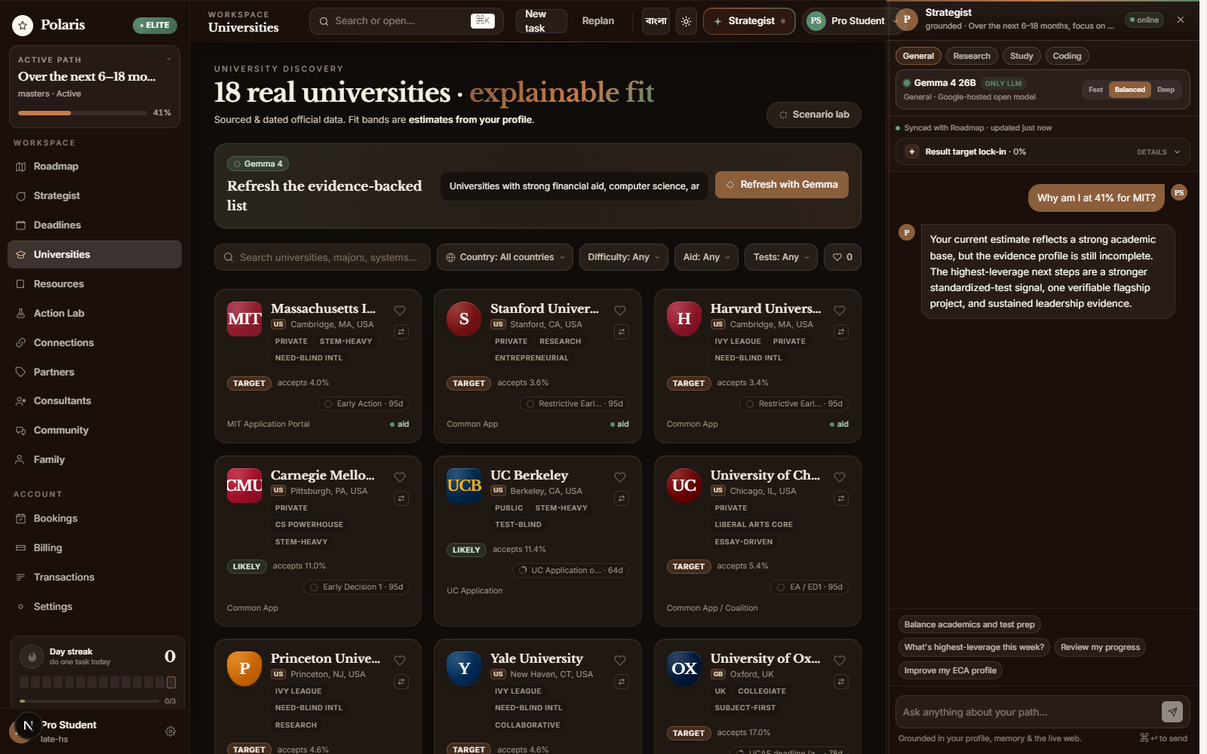
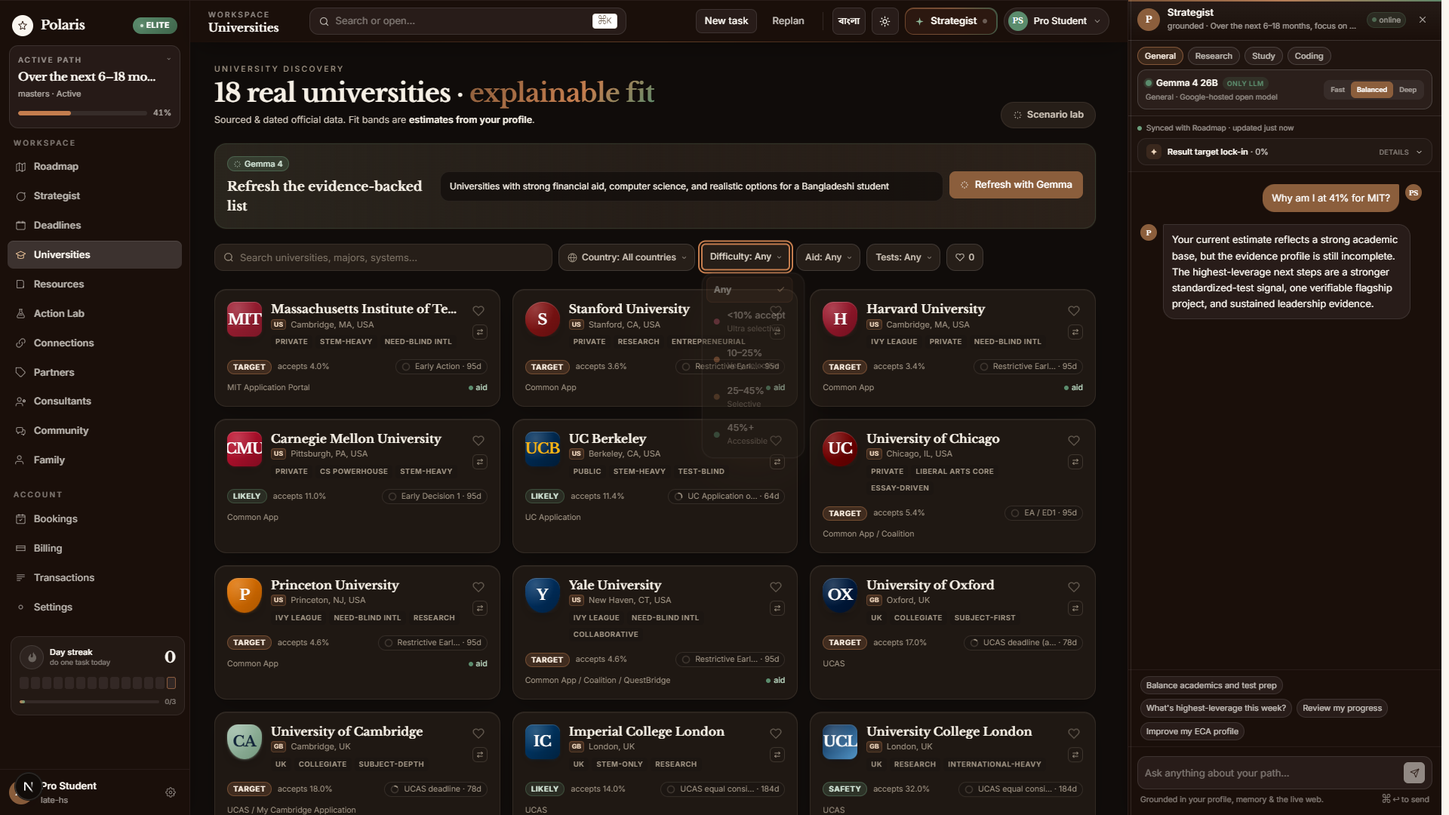
feat: finalize judge-ready Gemma workspace

diff --git a/components/app/GemmaStudioPanels.tsx b/components/app/GemmaStudioPanels.tsx
@@ -1,6 +1,6 @@
 "use client";
 
-import { useEffect, useMemo, useState } from "react";
+import { useEffect, useMemo, useRef, useState } from "react";
 import Image from "next/image";
 import { motion } from "framer-motion";
 import { Btn, Card, Icon, Pill, Progress, RingMini, Tag } from "@/components/app/ui";
@@ -430,6 +430,7 @@ export function GemmaEssayStudio({ lang }: { lang: Lang }) {
   const [hydrated, setHydrated] = useState(false);
   const [savedAt, setSavedAt] = useState("");
   const [scan, setScan] = useState<ScannedEssay | null>(null);
+  const imageInputRef = useRef<HTMLInputElement>(null);
   const [scanBusy, setScanBusy] = useState(false);
   const [scanError, setScanError] = useState("");
   const [uncertainText, setUncertainText] = useState("");
@@ -553,6 +554,14 @@ export function GemmaEssayStudio({ lang }: { lang: Lang }) {
     });
   };
 
+  const clearImage = () => {
+    setScan(null);
+    setScanError("");
+    setUncertainText("");
+    setTranslation("");
+    if (imageInputRef.current) imageInputRef.current.value = "";
+  };
+
   const chooseImage = async (file?: File) => {
     if (!file) return;
     setScanBusy(true);
@@ -661,14 +670,27 @@ export function GemmaEssayStudio({ lang }: { lang: Lang }) {
               <span className="grid h-10 w-10 place-items-center rounded-xl bg-aurora-500/15 text-lg text-aurora-600">↑</span>
               <span className="mt-2 text-[12px] font-semibold text-ink">{scan ? (bn ? "অন্য ছবি বেছে নিন" : "Choose another image") : (bn ? "স্ক্যান করুন বা ছবি আপলোড করুন" : "Scan or upload a page")}</span>
               <span className="mt-1 text-[9.5px] text-ink-muted">JPEG, PNG, WebP</span>
-              <input type="file" accept="image/jpeg,image/png,image/webp" capture="environment" className="sr-only" onChange={(event) => void chooseImage(event.target.files?.[0])} />
+              <input ref={imageInputRef} type="file" accept="image/jpeg,image/png,image/webp" capture="environment" className="sr-only" onChange={(event) => void chooseImage(event.target.files?.[0])} />
             </label>
             <p className="mt-2 text-[9.5px] leading-relaxed text-ink-muted">{bn ? "ছবি সংরক্ষণ করা হয় না। সক্রিয় extraction অনুরোধে এটি শুধু Gemma-কে পাঠানো হয়।" : "The image is not stored. It is sent to Gemma only for the active extraction request."}</p>
           </div>
           <div className="rounded-2xl border border-ink-faint/15 bg-bg/50 p-4">
             {scan ? (
               <div className="grid gap-3 md:grid-cols-[190px_1fr]">
-                <Image src={scan.preview} alt={bn ? "আপলোড করা হাতের লেখা" : "Uploaded handwriting"} width={190} height={208} unoptimized className="h-52 w-full rounded-xl object-contain bg-white/90 ring-1 ring-inset ring-ink-faint/10" />
+                <div className="relative">
+                  <Image src={scan.preview} alt={bn ? "আপলোড করা হাতের লেখা" : "Uploaded handwriting"} width={190} height={208} unoptimized className="h-52 w-full rounded-xl object-contain bg-white/90 ring-1 ring-inset ring-ink-faint/10" />
+                  <button
+                    type="button"
+                    onClick={clearImage}
+                    disabled={scanBusy}
+                    aria-label={bn ? "আপলোড করা ছবি মুছুন" : "Remove uploaded image"}
+                    title={bn ? "ছবি মুছুন" : "Remove image"}
+                    className="absolute right-2 top-2 inline-flex h-7 items-center gap-1 rounded-full bg-ink/85 px-2.5 text-[9.5px] font-semibold text-paper shadow-sm backdrop-blur transition hover:bg-signal-rose disabled:cursor-not-allowed disabled:opacity-50"
+                  >
+                    <Icon.close size={10} />
+                    <span>{bn ? "মুছুন" : "Remove"}</span>
+                  </button>
+                </div>
                 <div>
                   <div className="flex flex-wrap items-center gap-2">
                     <Tag tone="aurora">{sourceLanguage === "bn" ? "বাংলা" : sourceLanguage === "mixed" ? (bn ? "মিশ্র ভাষা" : "Mixed") : "English"}</Tag>

diff --git a/app/globals.css b/app/globals.css
@@ -291,6 +291,42 @@ html.lenis body {
   background-clip: padding-box;
 }
 *::-webkit-scrollbar-corner { background: transparent; }
+
+/* Consistent product scrollers for nested workspaces and floating controls. */
+.polaris-scrollbar {
+  scrollbar-width: thin;
+  scrollbar-color: rgba(178, 118, 76, 0.58) rgba(49, 36, 28, 0.22);
+  scrollbar-gutter: stable;
+}
+.polaris-scrollbar::-webkit-scrollbar { width: 9px; height: 9px; }
+.polaris-scrollbar::-webkit-scrollbar-track {
+  background: rgba(49, 36, 28, 0.22);
+  border-radius: 999px;
+}
+.polaris-scrollbar::-webkit-scrollbar-thumb {
+  background: linear-gradient(180deg, rgba(204, 143, 94, 0.76), rgba(139, 94, 60, 0.68));
+  background-clip: padding-box;
+  border: 2px solid transparent;
+  border-radius: 999px;
+}
+.polaris-scrollbar::-webkit-scrollbar-thumb:hover {
+  background: linear-gradient(180deg, rgba(220, 158, 106, 0.9), rgba(157, 103, 65, 0.82));
+  background-clip: padding-box;
+}
+:root[data-theme="dark"] .polaris-scrollbar {
+  scrollbar-color: rgba(204, 143, 94, 0.7) rgba(49, 36, 28, 0.36);
+}
+:root[data-theme="dark"] .polaris-scrollbar::-webkit-scrollbar-track {
+  background: rgba(49, 36, 28, 0.36);
+}
+:root[data-theme="dark"] .polaris-scrollbar::-webkit-scrollbar-thumb {
+  background: linear-gradient(180deg, rgba(204, 143, 94, 0.76), rgba(139, 94, 60, 0.68));
+  background-clip: padding-box;
+}
+:root[data-theme="dark"] .polaris-scrollbar::-webkit-scrollbar-thumb:hover {
+  background: linear-gradient(180deg, rgba(220, 158, 106, 0.9), rgba(157, 103, 65, 0.82));
+  background-clip: padding-box;
+}
 /* Always show the vertical scrollbar so layout doesn't jump between long /
    short pages. */
 html { scrollbar-gutter: stable; }

diff --git a/app/demo/layout.tsx b/app/demo/layout.tsx
@@ -6,8 +6,8 @@ import { DemoWorkspaceSeed } from "@/components/demo/DemoWorkspaceSeed";
 import { DEMO_PATHS, DEMO_USER } from "@/lib/demo/polaris";
 
 export const metadata: Metadata = {
-  title: "Polaris | Public Gemma 4 Demo",
-  description: "The complete Polaris workspace, available without sign-in for hackathon judging.",
+  title: "Polaris | Gemma 4 Academic Strategist",
+  description: "A bilingual Gemma 4 academic strategist that turns student ambition into an evidence-backed plan.",
 };
 
 export default function DemoLayout({ children }: { children: React.ReactNode }) {
@@ -26,7 +26,7 @@ export default function DemoLayout({ children }: { children: React.ReactNode }) 
         />
         <div className="flex-1 min-w-0 flex flex-col h-full">
           <TopBar basePath="/demo" demoUser={DEMO_USER} />
-          <main className="flex-1 min-h-0 overflow-y-auto">{children}</main>
+          <main className="polaris-scrollbar flex-1 min-h-0 overflow-y-auto">{children}</main>
         </div>
         <AgentChat
           studentInitials={DEMO_USER.initials}

diff --git a/components/app/AgentChat.tsx b/components/app/AgentChat.tsx
@@ -765,7 +765,7 @@ export function AgentChat({ studentInitials, pathLabel, contextChips = [], demo 
         </div>
       )}
 
-      <div ref={scroller} className="flex-1 min-h-0 overflow-y-auto overscroll-contain px-4 py-4 space-y-4">
+      <div ref={scroller} className="polaris-scrollbar flex-1 min-h-0 overflow-y-auto overscroll-contain px-4 py-4 space-y-4">
         {messages.length === 0 && <EmptyState onPick={send}/>}
         {messages.map(m => <Bubble key={m.id} m={m} initials={studentInitials}/>)}
         {thinking && streaming && <ThinkingIndicator label={thinking} />}

diff --git a/components/ui/PremiumSelect.tsx b/components/ui/PremiumSelect.tsx
@@ -211,7 +211,7 @@ export function PremiumSelect({
                 role="listbox"
                 id={listboxId}
                 aria-activedescendant={highlight ? `${listboxId}-${highlight}` : undefined}
-                className="max-h-[280px] overflow-y-auto overscroll-contain p-1.5"
+                className="polaris-scrollbar max-h-[280px] overflow-y-auto overscroll-contain p-1.5"
               >
                 {visible.length === 0 ? (
                   <div className="px-3 py-6 text-center">

diff --git a/KAGGLE_WRITEUP.md b/KAGGLE_WRITEUP.md
@@ -2,106 +2,94 @@
 
 **Team:** Imtiaz Hossain & Mofftasim Hossain Sayem
 
-## Turning a Bangladeshi student's ambition into an evidence-grounded plan they can start this week
+## A Bengali-first Gemma 4 strategist that helps students start early, prove progress, and turn global education goals into weekly action.
 
-### The problem
+### The moment the roadmap arrives too late
 
-A motivated student can search for "how to get into a top university" and receive thousands of results. That abundance is part of the problem. Requirements, scholarships, deadlines, case studies, and generic advice are scattered across sources. Students with access to experienced counselors can turn those fragments into a strategy; many students in Bangladesh cannot.
+A Bangladeshi student completes HSC, opens a scholarship page, and discovers that the strongest application was supposed to begin years earlier. The test score needs months of preparation. The application asks for sustained projects, leadership, and proof of impact. Important deadlines are already close. The ambition was always there; the roadmap arrived too late.
 
-The result is not a lack of ambition. It is misallocated effort: collecting certificates instead of developing depth, preparing for tests too late, overlooking scholarship timelines, or targeting universities without understanding profile gaps.
+That gap begins long before university applications. A student in Class 5, 7, or 8 may have curiosity and potential but no connected view of Olympiads, hackathons, community projects, English preparation, scholarships, or future deadlines. Search results provide fragments. Families with experienced counselors can turn those fragments into a sequence; many students cannot.
 
-We asked a practical question: **Can an open model act as a strategic reasoning layer, not merely a chatbot, and turn a small student snapshot into a measurable, locally realistic roadmap?**
+The result is often misallocated effort: collecting certificates instead of building depth, preparing for IELTS or SAT too late, missing funding windows, or targeting universities without understanding the evidence their profile still needs.
 
-### Our solution
+We asked: **Can an open model become a strategic reasoning layer that helps a student start earlier, adapt honestly, and turn a distant goal into the next measurable week?**
 
-Polaris is an AI academic strategist powered exclusively by Gemma 4. A student provides their current stage, intended degree, academic standing, target university tier, and existing extracurricular strengths. Polaris retrieves relevant evidence from a curated knowledge base and asks Gemma 4 to produce:
+### What we built
 
-- a concise strategic diagnosis;
-- 3-5 honest profile gaps;
-- an 8-12 step roadmap across the next 6-18 months;
-- a priority, rationale, and measurable success criterion for every step.
+Polaris is a bilingual academic strategist powered exclusively by Gemma 4. A student provides their stage, intended degree, academic standing, goals, constraints, and current activities. Polaris retrieves relevant evidence and asks Gemma 4 to create a structured diagnosis and an 8 to 12 step roadmap across the next 6 to 18 months. Every milestone includes a priority, rationale, deadline, and measurable success criterion.
 
-This output is structured data, not an unbounded chat response. Polaris renders it as an interactive plan that can later be tracked, adapted, and discussed with the streaming Strategist.
+The result is not an unbounded chat transcript. It is a living roadmap that can be tracked, replanned, and discussed with a synchronized Strategist. Judges can open the public workspace without an account, card, or payment. English and Bengali are supported across navigation, roadmap content, forms, errors, and generated guidance, while official names and established acronyms remain unchanged.
 
-Judges can use the public `/demo` workspace without creating an account or entering payment details. It begins with a complete, realistic Bangladesh-student roadmap, supports live replanning, and exposes model traces and retrieved sources.
+Polaris follows the student after planning:
 
-The entire public workspace can switch between English and Bengali. Navigation, generated roadmap content, validation messages, fallback guidance, and Strategist answers follow the selected language while proper names and standard admissions acronyms remain intact.
+- **Decision Twin** stress-tests a changed score, deadline, budget, country, or weekly study time and explains what should move.
+- **Evidence-to-Action Graph** separates a claim from proof, identifies missing verification, and proposes the next evidence action.
+- **Mock Exams** uses Gemma 4 to generate fresh IELTS or Digital SAT questions by section and difficulty. Scoring is deterministic; Gemma 4 diagnoses the answer pattern and recommends the next practice block.
+- **Smart Routine** converts a request such as “add mathematics practice from 9 to 10 pm” into a validated, editable weekly schedule.
+- **Video Learning** starts with verified section-specific playlists. Gemma 4 refreshes relevant lessons and the selected video plays inside Polaris.
+- **Knowledge Notes** turns feedback into reusable memory shared by the full-page and side-panel Strategists.
+- **Essay Studio** supports multiple named drafts, ethical improvement, and voice-preserving feedback. Gemma 4 can transcribe Bengali, English, or mixed handwritten essays from an uploaded image, preserve Bengali first, and create an English translation only when requested.
+- **Discovery refresh** helps students explore universities, resources, offers, and case-study patterns under contracts that prohibit invented rankings, costs, admission rates, offers, or outcomes.
+- **Family workspace** creates revocable, browser-local read-only invitation links so a student can share progress without surrendering control.
 
-Action Lab extends the roadmap beyond chat. Its **Decision Twin** stress-tests a changed score, deadline, budget, country, or weekly study time. The **Evidence-to-Action Graph** separates a student's claim from proof and produces the next measurable verification step. Gemma 4 also creates fresh IELTS or SAT diagnostics, reviews answer patterns after deterministic scoring, refreshes verified in-app lesson playlists by exam section, converts routine requests into editable blocks, and supports day-by-day essay improvement. Students can upload Bengali, English, or mixed handwritten essays for faithful Gemma 4 transcription, then explicitly request an English translation and save it as a separate named draft.
+### Why Gemma 4 is essential
 
-Students can turn feedback into browser-local knowledge notes. Both the full-page Strategist and right-side Strategist read the same saved notes and conversation history. Gemma 4 discovery controls can refresh university, resource, and case-study recommendations under contracts that prohibit invented rankings, costs, offers, rates, or outcomes. A functional family workspace creates revocable, browser-local read-only invitation links. An optional personal Gemma API key is stored only for the current browser tab and never persisted or logged.
+A template can say “improve your GPA.” The hard problem is deciding whether this student should prioritize a test, a flagship project, research evidence, or a scholarship deadline, then revising that decision when a constraint changes. Gemma 4 performs that central reasoning and synthesis.
 
-### Why Gemma 4 is core
+Polaris uses the hosted `gemma-4-26b-a4b-it` model through Google's official `@google/genai` SDK. `gemma-4-31b-it` is also allowlisted. Fast requests use minimal thinking; deeper Strategist analysis uses a higher reasoning setting. Internal thoughts are never shown.
 
-Templates can say "improve your GPA" or "join an extracurricular." The difficult part is deciding what matters most for this student, resolving trade-offs across several admissions dimensions, and grounding recommendations in relevant evidence. Gemma 4 performs that central reasoning and synthesis.
+Gemma 4 powers 17 generative responsibilities across the product: roadmap planning, both synchronized Strategists, research, Decision Twin, Evidence Graph, mock generation and review, video learning, knowledge notes, essay coaching, handwriting extraction, essay translation, university and resource discovery, case studies, Smart Routine, Offer Radar, and student memory.
 
-We use the hosted `gemma-4-26b-a4b-it` model through Google's official `@google/genai` SDK. The optional `gemma-4-31b-it` configuration is also allowlisted. Minimal thinking keeps the public roadmap responsive; high thinking is reserved for Deep Strategist requests. Internal thoughts are never exposed.
-
-Gemma 4 powers all 17 generative surfaces: roadmap planning, both synchronized Strategists, research, Decision Twin, Evidence Graph, mock generation and grading, verified video learning, knowledge notes, essay coaching, handwriting extraction, essay translation, university and resource discovery, case studies, Smart Routine, Offer Radar, and student memory.
-
-These are not decorative AI labels. Each surface sends a distinct validated contract to Gemma 4 and returns either schema-checked structured data or safely rendered Markdown. Scoring, retrieval, validation, and browser storage remain deterministic and inspectable.
-
-There is one model registry entry and one provider adapter. Model IDs are selected from a server-side constant; client values and old saved preferences cannot override it. No other LLM or generative foundation model is used. Optional Tavily search only retrieves public snippets. BM25 retrieval, probability scoring, and the clearly labeled offline planner are deterministic algorithms.
+Each surface has a distinct validated contract. The server returns schema-checked data or safely rendered Markdown. Retrieval, scoring, validation, and storage remain deterministic and inspectable. There is one provider adapter and one model allowlist. No other LLM or generative foundation model is used.
 
 ### Technical architecture
 
-The core request path is:
+The roadmap request path is:
 
-`Student form -> Zod validation -> BM25 retrieval -> prompt + flat JSON schemas -> parallel Gemma 4 stages -> structured roadmap -> interactive UI`
+`Student profile -> Zod validation -> BM25 retrieval -> Gemma 4 structured reasoning -> schema validation -> interactive roadmap`
 
 Action Lab follows the same boundary:
 
-`Constraint, claim, exam request, routine, note, essay image, or discovery query -> validation -> compact Gemma 4 schema -> deterministic normalization -> bilingual editable UI`
+`Student action or evidence -> validation -> compact Gemma 4 contract -> deterministic normalization -> bilingual editable UI`
 
-Our knowledge base contains curated documents covering universities, scholarships, admissions principles, and accepted-student patterns. A deterministic BM25 implementation ranks the most relevant documents and places the top evidence in Gemma 4's context. This design makes retrieval inspectable, fast, and independent of another generative model.
+A curated knowledge base covers universities, scholarships, admissions principles, and student patterns. A deterministic BM25 implementation ranks the most relevant documents and places the strongest evidence into Gemma 4's context. This keeps retrieval fast, reproducible, and independent of another foundation model.
 
-Gemma 4 receives a Bangladesh-context system instruction, the normalized profile, retrieved evidence, and flat response schemas. A compact diagnosis runs first, then eight one-milestone flat-schema stages run in parallel. Only malformed stages receive a small targeted retry. This avoids nested-output truncation and stays within the hosted free-tier input-token budget while producing one typed eight-step roadmap.
+Roadmap generation uses a compact diagnosis followed by flat milestone stages that can run in parallel. Only malformed stages receive a targeted retry. This reduces truncation, controls token use, and produces typed milestones instead of brittle free-form text.
 
-The public API is server-side, schema-validated, rate-limited, and keeps credentials out of the browser. If the model API is temporarily unavailable, a deterministic heuristic roadmap preserves the demo flow and is visibly labeled "Offline fallback"; it is never represented as Gemma output.
+The API is server-side, rate-limited, and keeps credentials out of the browser. An optional personal Gemma key stays only in session storage and is never persisted or logged. When the hosted model is temporarily unavailable, an explicitly labeled deterministic fallback preserves the interface flow without pretending to be Gemma output.
 
+### What is different
 
-### What is innovative
+**From information to timing.** Polaris is designed to reach students before the final application year and connect long-term opportunities to work they can begin now.
 
-**From conversation to commitment.** The primary artifact is not a chat transcript; it is an operational roadmap with dates, priorities, and success metrics.
+**From conversation to commitment.** The main artifact is an operational roadmap with dates, priorities, evidence, and success metrics.
 
-**Auditable model policy.** The UI says which model ran, the API returns a trace, and the server has a single-model allowlist. Judges can verify meaningful Gemma 4 integration directly in code.
+**From advice to an execution loop.** A student can decide, prove, practise, schedule, learn, write, remember, and adapt inside one system.
 
-**Local realism.** Prompts explicitly require actions a student in Dhaka can begin on Monday, accounting for resource and access constraints instead of assuming a US counseling ecosystem.
+**Local realism.** Prompts require actions a student in Bangladesh can realistically begin, rather than assuming access to an expensive counseling ecosystem.
 
-**Evidence plus judgment.** Retrieval supplies facts and patterns; Gemma 4 converts them into a coherent strategy. Neither component alone solves the problem.
+**Auditable model policy.** The interface exposes the active Gemma 4 model and sources; the repository and executed notebook show the single-model boundary and response contracts.
 
-**Decision-to-evidence loop.** Students can test a decision, prove a claim, practise with a fresh model-generated diagnostic, play a relevant lesson in-app, turn handwritten work into a bilingual draft, save feedback as knowledge, and schedule the next action. Gemma 4 stays inside the entire execution loop.
+### Challenges and what we learned
 
-### Technical challenges
+Reliable roadmap cards required more discipline than ordinary chat. We replaced variable prose with strict schemas and boundary validation. To avoid another model for embeddings, we implemented inspectable BM25 retrieval with length normalization and title weighting. To satisfy the one-model rule, we removed alternate model adapters and reject unsupported routing choices. To keep the public workspace resilient, interactions persist locally, model requests are bounded, and fallbacks are honest.
 
-**Meeting the one-model rule in an existing product foundation.** Polaris previously had a flexible provider abstraction. For this sprint, we removed every alternate adapter and local-model endpoint, replaced the registry with Gemma 4 only, and made the router ignore stale client preferences. This created a simple, auditable compliance boundary.
+The biggest lesson was that useful guidance needs memory and proof. A recommendation becomes more valuable when the system remembers why it was made, what evidence would verify it, and how the next decision should change after new progress.
 
-**Reliable UI output from a reasoning model.** Natural language varied too much for roadmap cards. We moved generation behind a strict JSON schema and validate at the API boundary. The interface can now depend on milestone categories, priorities, and metrics.
+### Impact, limits, and next steps
 
-**Retrieval without another foundation model.** To avoid a separate embedding model and improve reproducibility, we implemented BM25 with length normalization and title weighting. It produces useful, inspectable source rankings with no extra AI dependency.
+Polaris can help students recognize gaps earlier and spend scarce time on higher-leverage work. It can give parents and teachers a shared plan instead of disconnected advice. The same architecture could support scholarship discovery, public-university preparation, vocational pathways, and university-to-career transitions.
 
-**A demo that survives hackathon conditions.** The all-access workspace avoids database and checkout setup, starts with a complete plan, persists interactions locally, rate-limits model requests, and has an honest deterministic fallback. The prototype remains useful even if network capacity fluctuates.
+Polaris does not guarantee admission. Fit estimates are directional, source freshness matters, and high-stakes choices should be checked with teachers, counselors, and official sources. The scoring system excludes demographic proxies.
 
-### Potential impact
-
-Polaris can help students spend scarce time on higher-leverage work and recognize gaps earlier, particularly where professional counseling is inaccessible. It can also give parents and teachers a shared, concrete plan instead of disconnected recommendations.
-
-The architecture is adaptable beyond elite admissions. A localized knowledge base could support scholarship discovery, public-university preparation, vocational pathways, or university-to-career transitions. The same structured roadmap pattern can make expert guidance more accessible while keeping human mentors in control.
-
-### Limitations and responsible use
-
-Polaris does not guarantee admission and says so explicitly. Retrieved material can become outdated, so source freshness and human verification remain important. Probability estimates are directional and use transparent academic/activity inputs rather than demographic attributes. High-stakes decisions should be reviewed with teachers, counselors, and official university sources.
-
-### What comes next
-
-We would add stronger source-freshness automation, university-specific evidence packs, Bangla voice input, calendar synchronization, verified family accounts, mentor review, and outcome-based evaluation with consenting students. We also want to compare generated plans against counselor rubrics and measure whether recommendations remain feasible over time.
+Next, we would add automated source-freshness checks, richer Bangladesh-specific opportunity packs, Bangla voice input, calendar synchronization, verified family accounts, mentor review, and longitudinal evaluation with consenting students.
 
 ### Links
 
-- **Live app and demo:** https://polaris-gemma4.vercel.app/demo
+- **Live product workspace:** https://polaris-gemma4.vercel.app/demo
 - **Action Lab:** https://polaris-gemma4.vercel.app/demo/action-lab
 - **Public repository:** https://github.com/ImtiazHossain-Eshan/polaris-gemma4
 - **Executed notebook:** `notebooks/polaris_gemma4_decision_lab.ipynb`
 - **Model:** Gemma 4 via the official Google Gen AI SDK
 
-Polaris turns open-model intelligence into something a student can use: a north star, a sequence of next steps, and a reason to begin now.
+Polaris gives an ambitious student something more useful than another list of links: a north star, a sequence of evidence-backed actions, and a reason to begin years earlier.

diff --git a/README.md b/README.md
@@ -5,7 +5,7 @@
 <h1 align="center">Polaris</h1>
 
 <p align="center">
-  <strong>A Gemma 4 academic strategist that turns ambition into an evidence-backed plan a student can act on today.</strong>
+  <strong>A Bengali-first Gemma 4 strategist that helps students start early, prove progress, and turn global education goals into weekly action.</strong>
 </p>
 
 <p align="center">
@@ -18,9 +18,9 @@
 
 ## Why Polaris exists
 
-University applicants have more information than ever, but very little of it becomes a reliable weekly plan. Requirements live across university pages, scholarship rules, test calendars, saved notes, family expectations, and scattered advice. Students still have to decide what matters now, what evidence is missing, and what should change when a deadline moves.
+A Bangladeshi student can reach HSC, open a scholarship or university application, and discover that the strongest preparation should have started years earlier. Tests need months of practice. Competitive applications ask for sustained projects, leadership, and evidence of impact. Important deadlines may already be close. The ambition was always there; the roadmap arrived too late.
 
-Polaris closes that planning gap. It combines a student profile, goals, constraints, deadlines, and retrieved evidence. Gemma 4 then turns that context into a measurable roadmap, explains trade-offs, and keeps the plan responsive as the student progresses.
+Polaris is built to close that timing gap. It helps students start as early as Class 5, 7, or 8 with a connected view of academic growth, Olympiads, hackathons, community projects, English preparation, scholarships, and future deadlines. Gemma 4 turns the student's profile, goals, constraints, evidence, and retrieved sources into a measurable roadmap, then keeps the plan responsive as the student progresses.
 
 The competition workspace is public. Judges can use every feature without creating an account, entering a card, or enabling a paid plan.
 
@@ -134,14 +134,14 @@ The new generation surfaces follow the same Bengali contract as the Strategist. 
 
 ![Shared main and side-panel Strategist conversation history](docs/assets/screenshots/18-shared-strategist-history.png)
 
-The full-page Strategist and the right-side Strategist now write to the same searchable history. Each public-demo thread records whether it was used in the main surface, the side panel, or both, and keeps its messages across refreshes in browser storage with an in-memory fallback.
+The full-page Strategist and the right-side Strategist now write to the same searchable history. Each public-workspace thread records whether it was used in the main surface, the side panel, or both, and keeps its messages across refreshes in browser storage with an in-memory fallback.
 
-### Settings and model transparency that work in the public demo
+### Settings and model transparency that work in the public workspace
 
 <table>
   <tr>
     <td width="50%">
-      <img src="docs/assets/screenshots/10-settings-profile.png" alt="Functional public demo profile settings" />
+      <img src="docs/assets/screenshots/10-settings-profile.png" alt="Functional public workspace profile settings" />
       <br />
       <strong>Editable student context</strong><br />
       Profile, curriculum, scores, goals, target tier, and activities persist safely on the judge's device.
@@ -307,7 +307,7 @@ app/api/demo/                Public roadmap and Strategist APIs
 app/api/action-lab/          Decision, evidence, and routine contracts
 app/api/gemma-studio/       Mock, video, notes, multimodal essay, translation, and discovery contracts
 components/app/              Product workspace and model response surfaces
-components/demo/             Browser-local public demo controls
+components/demo/             Browser-local public workspace controls
 data/                        Curated university, scholarship, and case-study evidence
 notebooks/                   Executed Gemma 4 Kaggle notebook
 lib/action-lab/              Typed exams, routines, videos, and results
